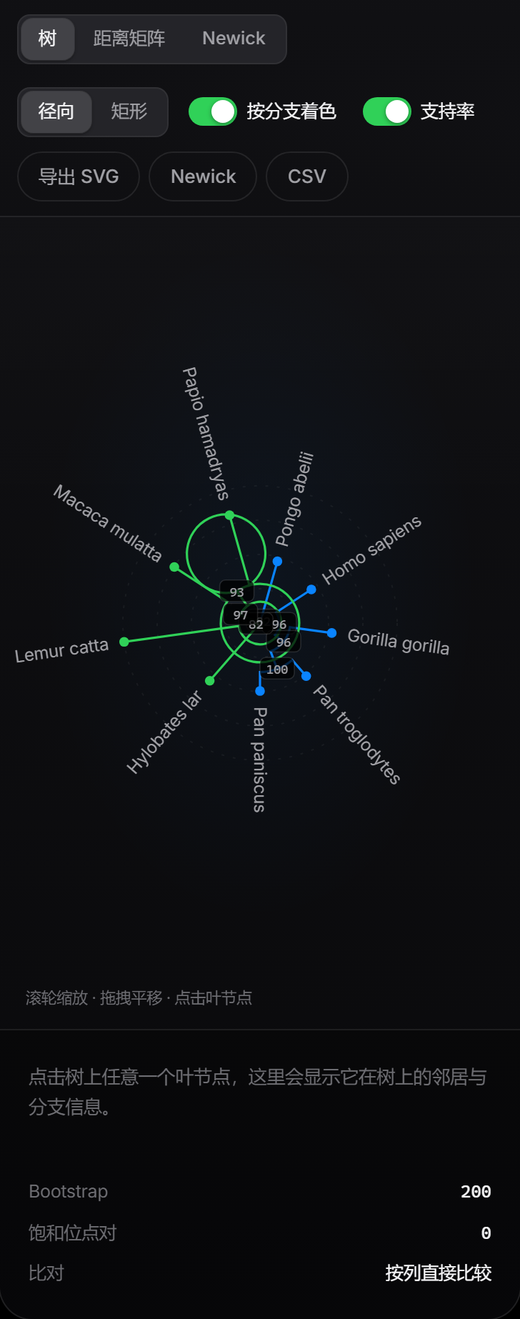
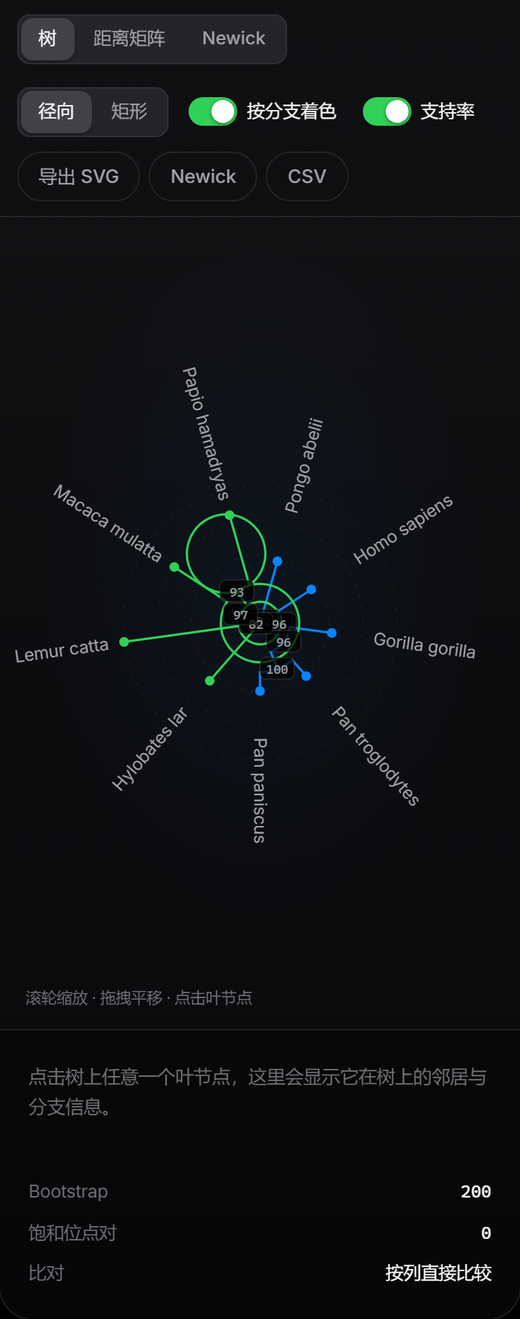
fix(tree): 浅分支的叶标签拉到统一标注环，避免圆心堆叠
径向树上根距很小的叶节点（例如脊椎动物数据集里的多种哺乳类）原本标签
会挤在圆心附近互相重叠。现在把比 72% 半径更浅的叶标签拉到标注环上，
并用一条低透明度虚线引线连回叶端；同时把矩形模式的叶行距改为按可用高度
均分，短树不再贴在顶部。

补充脊椎动物数据集的截图到 README。

diff --git a/src/components/TreeCanvas.tsx b/src/components/TreeCanvas.tsx
@@ -27,6 +27,8 @@ const labelRoom = (labels: string[]) => {
 }
 /** Labels pointing straight up or down need vertical room along the radius. */
 const VERTICAL_LABEL_ROOM = 118
+/** Shallow tips get their label pulled out to this fraction of the radius. */
+const LABEL_RING = 0.72
 const RECT_LEFT = 62
 const RECT_RIGHT = 210
 const RECT_TOP = 34
@@ -275,8 +277,15 @@ export default function TreeCanvas(props: TreeCanvasProps) {
               const isSelected = selected === index
               const deg = (leaf.angle * 180) / Math.PI
               const flip = mode === 'radial' && Math.cos(leaf.angle) < 0
-              const lx = mode === 'radial' ? p.x + Math.cos(leaf.angle) * 11 : p.x + 11
-              const ly = mode === 'radial' ? p.y + Math.sin(leaf.angle) * 11 : p.y
+              // Tips that sit close to the root would otherwise stack their
+              // labels on top of each other, so shallow labels are pulled out
+              // to a comfortable ring and joined to their tip by a leader.
+              const tipR = leaf.radius * radialR
+              const ringR = radialR * LABEL_RING
+              const labelR = mode === 'radial' ? Math.max(tipR, ringR) : tipR
+              const lx = mode === 'radial' ? cx + Math.cos(leaf.angle) * (labelR + 11) : p.x + 11
+              const ly = mode === 'radial' ? cy + Math.sin(leaf.angle) * (labelR + 11) : p.y
+              const leader = mode === 'radial' && labelR - tipR > 36
               return (
                 <g
                   key={`leaf-${leaf.id}-${animateKey}`}
@@ -299,6 +308,16 @@ export default function TreeCanvas(props: TreeCanvasProps) {
                   }}
                   aria-label={labels[index]}
                 >
+                  {leader && (
+                    <line
+                      className="leaf-leader"
+                      x1={p.x}
+                      y1={p.y}
+                      x2={cx + Math.cos(leaf.angle) * labelR}
+                      y2={cy + Math.sin(leaf.angle) * labelR}
+                      stroke={color}
+                    />
+                  )}
                   <text
                     className="leaf-label"
                     x={lx}

diff --git a/src/styles.css b/src/styles.css
@@ -823,7 +823,9 @@ input[type='range']::-moz-range-thumb {
   min-height: 540px;
   overflow: auto;
   display: grid;
-  place-items: center;
+  /* `safe` keeps the left/top edge reachable when the tree is wider than the
+     box — plain centring would push it into unreachable negative scroll. */
+  place-items: safe center;
 }
 
 .tree-svg {
@@ -885,6 +887,14 @@ input[type='range']::-moz-range-thumb {
   to {
     opacity: 1;
   }
+}
+
+.leaf-leader {
+  fill: none;
+  stroke-width: 1;
+  stroke-dasharray: 2 4;
+  opacity: 0.3;
+  pointer-events: none;
 }
 
 .leaf-label {

diff --git a/README.md b/README.md
@@ -55,6 +55,11 @@ Phylo Studio 把这条链路完整地放在浏览器里：
 
 ![点击叶节点后的邻居面板](docs/leaf-panel.png)
 
+切到 16 taxa 的脊椎动物数据集，分歧更深，浅分支的叶标签会被拉到同一个标注环上并用虚线
+引线连回叶端，避免几十个标签挤在圆心：
+
+![脊椎动物数据集](docs/tree-vertebrates.png)
+
 ![矩形树视图](docs/tree-rect.png)
 
 矩形视图适合读层级：叶节点按可用高度均分，短树不会挤在顶部。
